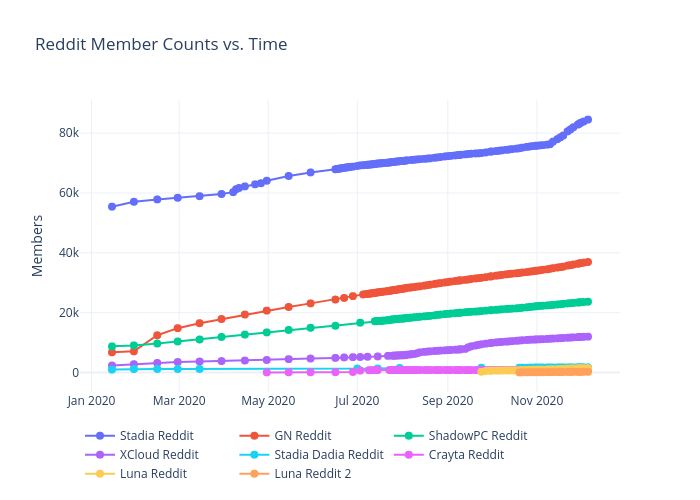
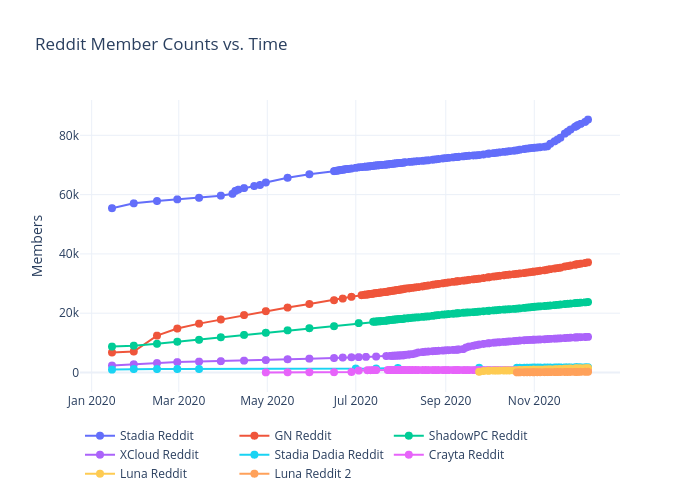
Add files via upload
Tuesday Data

diff --git a/reddit/figure.js b/reddit/figure.js
@@ -258,7 +258,8 @@ var figure = {
                 "83104",
                 "83459",
                 "83865",
-                "84520"
+                "84520",
+                "85305"
             ],
             "marker": {
                 "size": 8
@@ -525,13 +526,15 @@ var figure = {
                 "36443",
                 "36556",
                 "36699",
-                "36929"
+                "36929",
+                "37143"
             ],
             "marker": {
                 "size": 8
             },
             "stackgroup": null,
-            "connectgaps": true
+            "connectgaps": true,
+            "hovertemplate": "%X %Y"
         },
         {
             "meta": {
@@ -791,13 +794,15 @@ var figure = {
                 "23442",
                 "23488",
                 "23550",
-                "23655"
+                "23655",
+                "23768"
             ],
             "marker": {
                 "size": 8
             },
             "stackgroup": null,
-            "connectgaps": true
+            "connectgaps": true,
+            "hovertemplate": "%X %Y"
         },
         {
             "meta": {
@@ -1057,13 +1062,15 @@ var figure = {
                 "11842",
                 "11877",
                 "11922",
-                "11978"
+                "11978",
+                "12020"
             ],
             "marker": {
                 "size": 8
             },
             "stackgroup": null,
-            "connectgaps": true
+            "connectgaps": true,
+            "hovertemplate": "%X %Y"
         },
         {
             "meta": {
@@ -1323,13 +1330,15 @@ var figure = {
                 "1745",
                 "1748",
                 "1746",
-                "1752"
+                "1752",
+                "1758"
             ],
             "marker": {
                 "size": 8
             },
             "stackgroup": null,
-            "connectgaps": true
+            "connectgaps": true,
+            "hovertemplate": "%X %Y"
         },
         {
             "meta": {
@@ -1589,13 +1598,15 @@ var figure = {
                 "800",
                 "800",
                 "801",
-                "799"
+                "799",
+                "798"
             ],
             "marker": {
                 "size": 8
             },
             "stackgroup": null,
-            "connectgaps": true
+            "connectgaps": true,
+            "hovertemplate": "%X %Y"
         },
         {
             "meta": {
@@ -1855,13 +1866,15 @@ var figure = {
                 "1381",
                 "1397",
                 "1434",
-                "1480"
+                "1480",
+                "1501"
             ],
             "marker": {
                 "size": 8
             },
             "stackgroup": null,
-            "connectgaps": true
+            "connectgaps": true,
+            "hovertemplate": "%X %Y"
         },
         {
             "meta": {
@@ -2121,13 +2134,15 @@ var figure = {
                 "203",
                 "208",
                 "223",
-                "238"
+                "238",
+                "246"
             ],
             "marker": {
                 "size": 8
             },
             "stackgroup": null,
-            "connectgaps": true
+            "connectgaps": true,
+            "hovertemplate": "%X %Y"
         }
     ],
     "layout": {
@@ -2137,8 +2152,8 @@ var figure = {
         "xaxis": {
             "type": "date",
             "range": [
-                "2019-12-25 13:41:07.1361",
-                "2020-12-26 10:18:52.8639"
+                "2019-12-25 10:40:38.1001",
+                "2020-12-28 13:19:21.8999"
             ],
             "title": {
                 "text": ""
@@ -2148,8 +2163,8 @@ var figure = {
         "yaxis": {
             "type": "linear",
             "range": [
-                -5819.952210422327,
-                90372.95221042233
+                -5874.334156581873,
+                91212.33415658187
             ],
             "title": {
                 "text": "Members"
